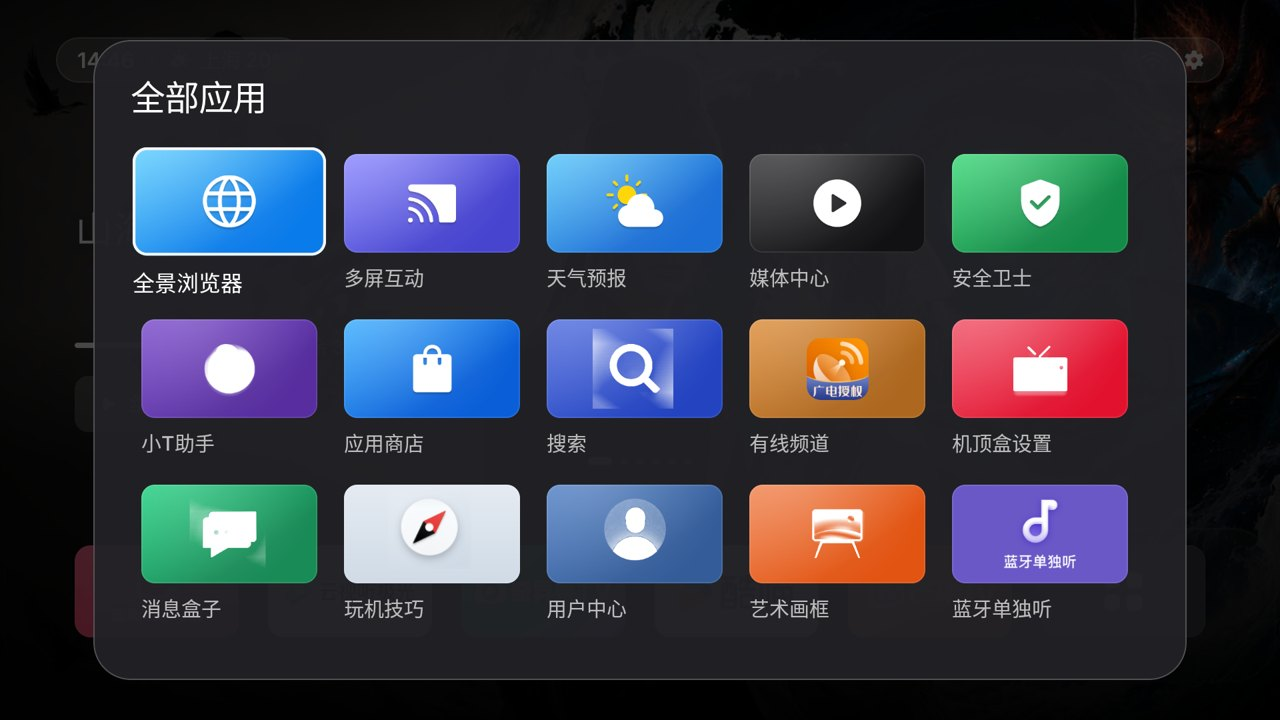
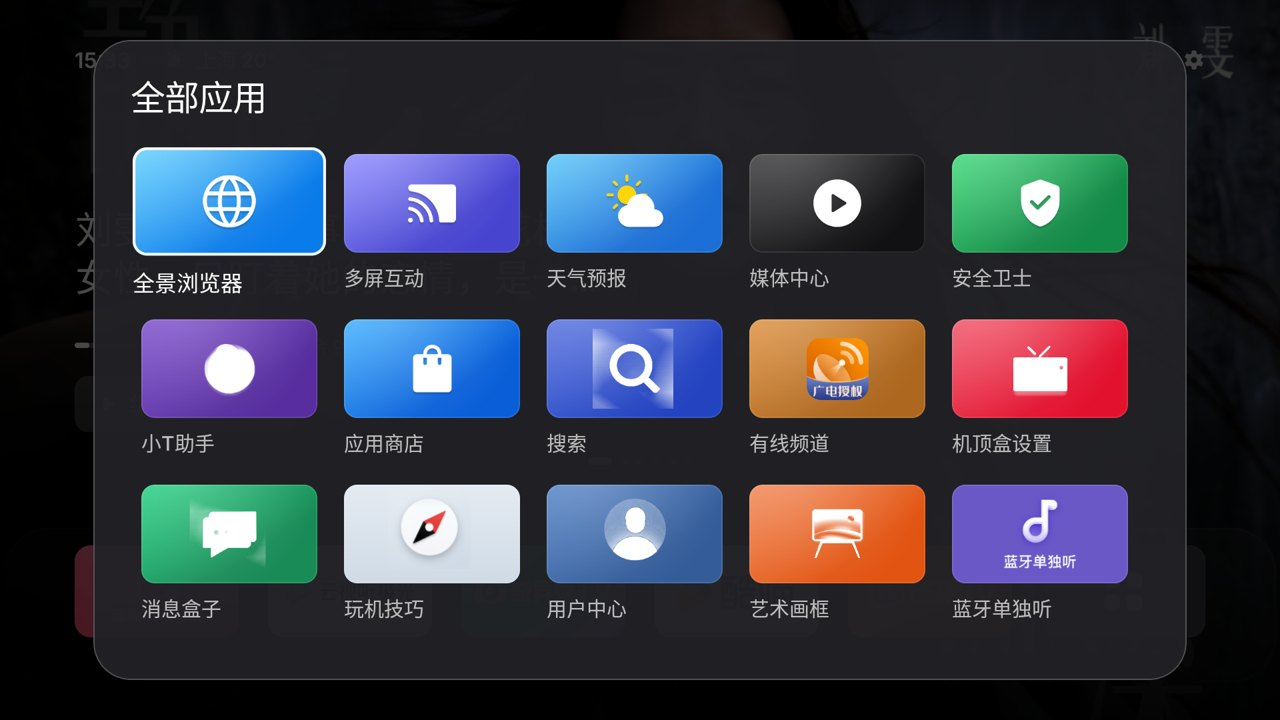
更新检查改用独立存储，避免读到 Aerial 遗留的 1.26 误报新版本；弹出提示等让窗口短暂失焦后，焦点回到原位置；README 截图换成最新界面；versionCode 47

diff --git a/app/src/main/java/app/orchard/tv/ui/home/HomeScreen.kt b/app/src/main/java/app/orchard/tv/ui/home/HomeScreen.kt
@@ -193,6 +193,29 @@ fun HomeScreen(
         runCatching { requester(key).requestFocus() }
     }
     val windowFocused = LocalWindowInfo.current.isWindowFocused
+    // A toast or a system dialog takes the window's focus for a moment; when it comes back, Android
+    // hands it to the top-most control (the status pill). Put it back where it was instead.
+    // Where focus was when the window lost it: "hero", "pill", or an app's key.
+    var focusBeforeBlur by remember { mutableStateOf<String?>(null) }
+    LaunchedEffect(windowFocused) {
+        if (!windowFocused) {
+            focusBeforeBlur = when {
+                heroFocused -> "hero"
+                pillFocused -> "pill"
+                else -> focusedKey
+            }
+            return@LaunchedEffect
+        }
+        val was = focusBeforeBlur ?: return@LaunchedEffect
+        focusBeforeBlur = null
+        if (overlay != Overlay.None || moving != null || vm.homeResetPending) return@LaunchedEffect
+        withFrameNanos { }
+        when (was) {
+            "pill" -> Unit
+            "hero" -> if (history.isNotEmpty()) runCatching { heroRequester.requestFocus() }
+            else -> focusApp(apps.indexOfFirst { it.key == was }.coerceAtLeast(0))
+        }
+    }
     LaunchedEffect(windowFocused, vm.homeResetPending, vm.loaded) {
         if (windowFocused && vm.homeResetPending && vm.loaded) {
             withFrameNanos { }

diff --git a/app/src/main/java/app/orchard/tv/update/Updates.kt b/app/src/main/java/app/orchard/tv/update/Updates.kt
@@ -25,7 +25,9 @@ import java.net.URL
  */
 object Updates {
     private const val TAG = "LumenUpdates"
-    private const val PREFS = "updates"
+    // Not "updates": builds up to versionCode 41 kept Aerial's latest version (1.26) there, read
+    // from Aerial's site, which then showed as a newer Lumen (TCL 65V8L, 2026-10-22).
+    private const val PREFS = "lumen_updates"
     private val VERSION_URLS = listOf(
         "https://cdn.jsdelivr.net/gh/Charleyxx1209/lumen-tv@main/version.txt",
         "https://raw.githubusercontent.com/Charleyxx1209/lumen-tv/main/version.txt",
